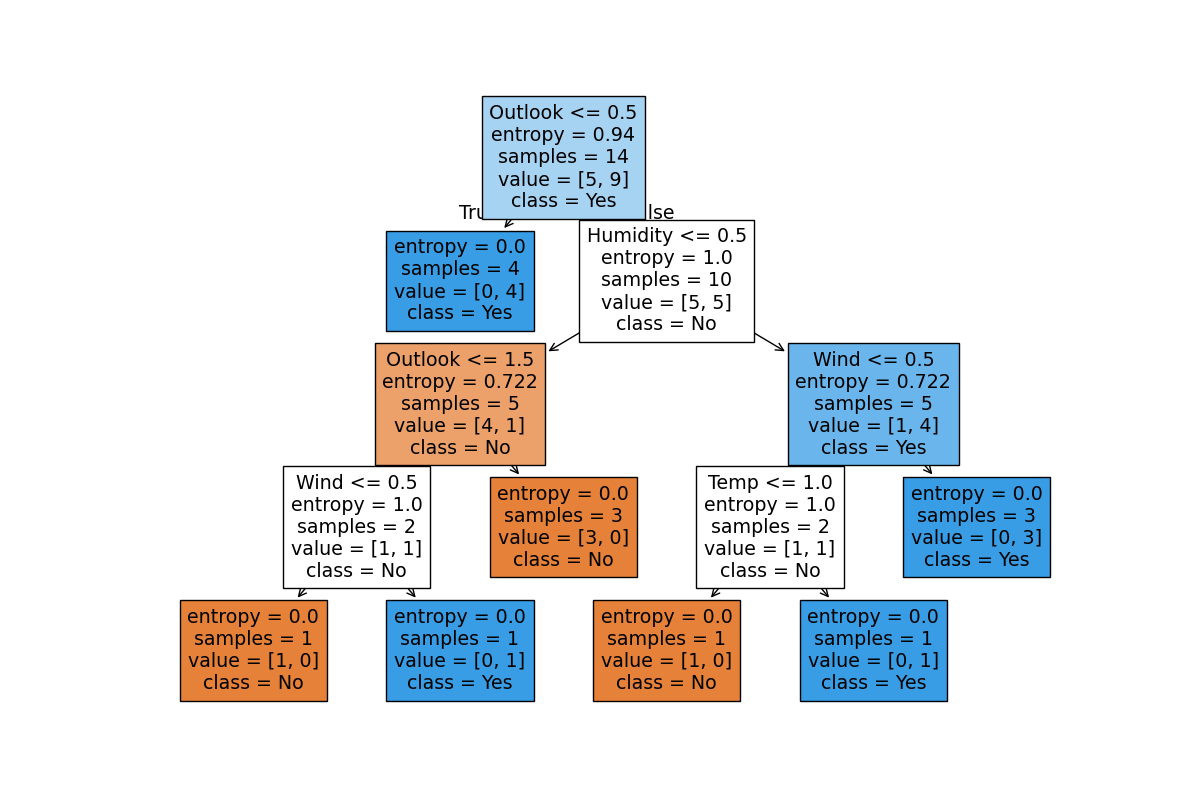
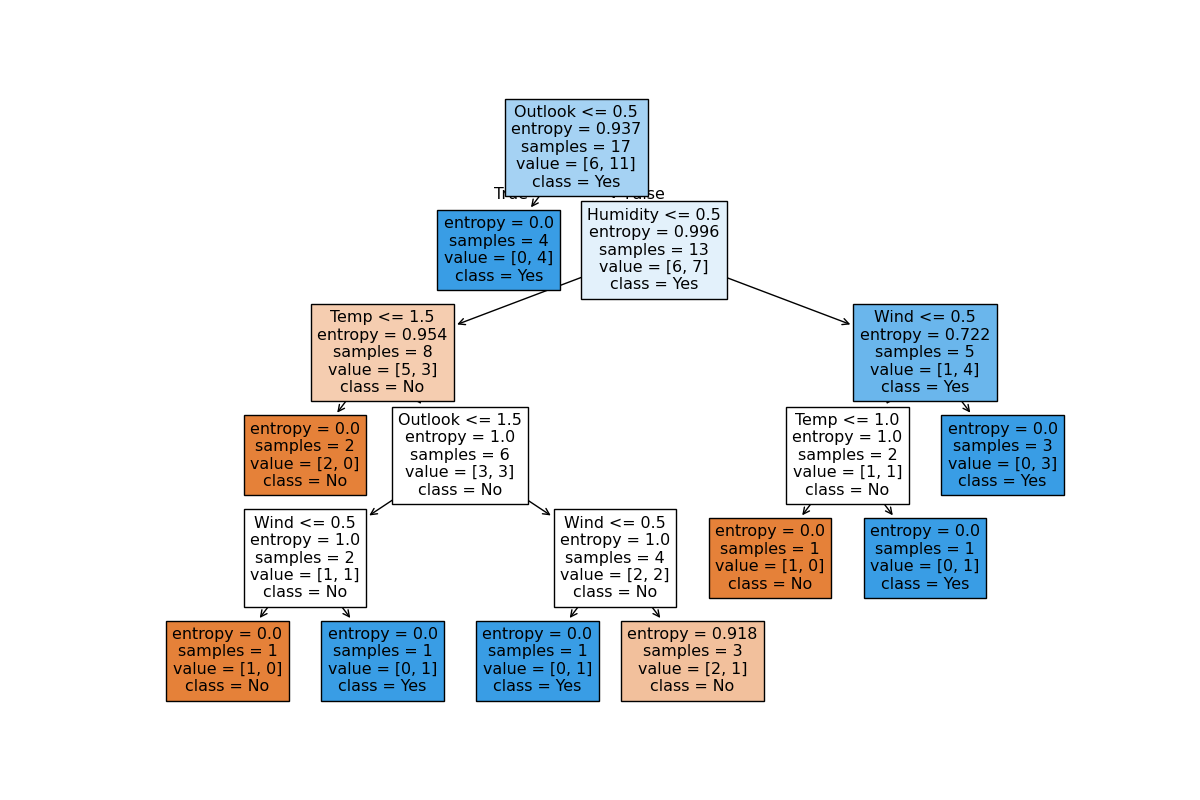
Output screenshots attached

Changed region(s): [[0.1233, 0.0938, 0.8942, 0.9062]]

diff --git a/dt.py b/dt.py
@@ -18,7 +18,10 @@ data = [
     ["Sunny", "Mild", "Normal", "Strong", "Yes"],
     ["Overcast", "Mild", "High", "Strong", "Yes"],
     ["Overcast", "Hot", "Normal", "Weak", "Yes"],
-    ["Rain", "Mild", "High", "Strong", "No"]
+    ["Rain", "Mild", "High", "Strong", "No"],
+    ["Sunny", "Mild", "High", "Weak", "No"],
+    ["Sunny", "Mild", "High", "Weak", "Yes"],
+    ["Sunny", "Mild", "High", "Strong", "Yes"],
 ]
 
 df = pd.DataFrame(data, columns=["Outlook", "Temp", "Humidity", "Wind", "Tennis"])
